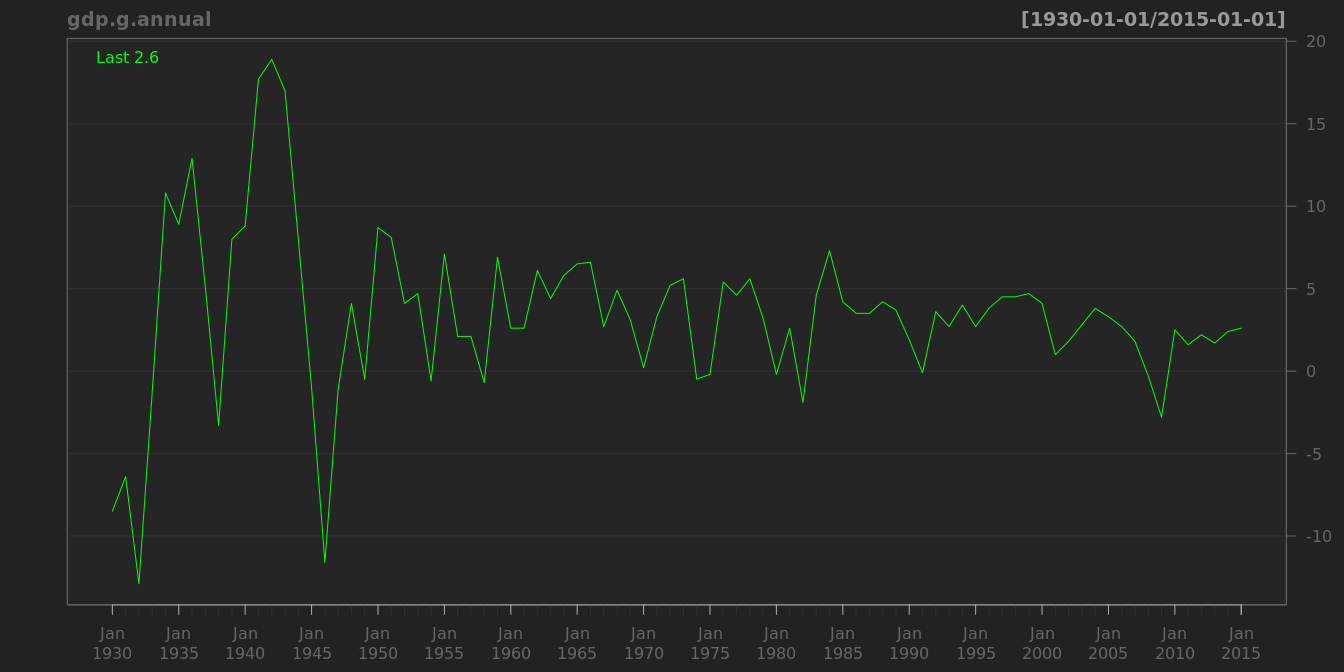
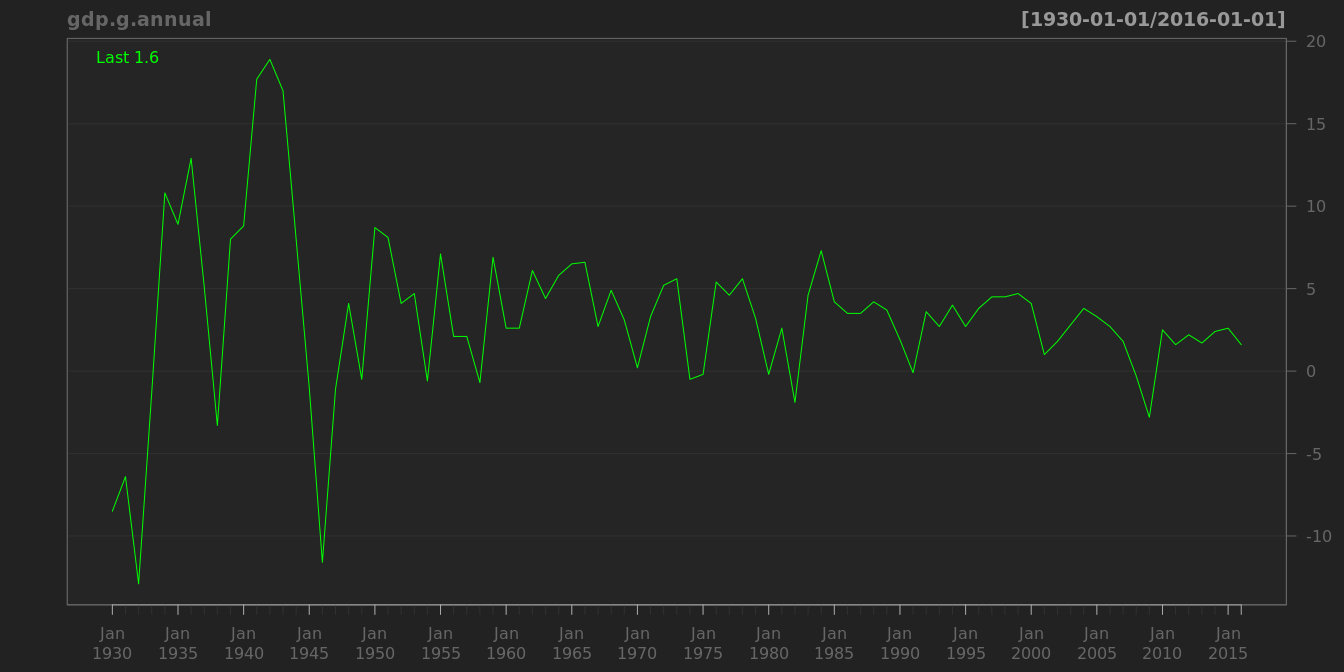
better

diff --git a/中央银行报告.md b/中央银行报告.md
@@ -90,7 +90,7 @@ Futures prices have also dropped significantly and indicate that market particip
 <img src="中央银行报告_files/figure-html/oil price-1.png" style="display: block; margin: auto;" /><img src="中央银行报告_files/figure-html/oil price-2.png" style="display: block; margin: auto;" />
 
 ```
-## [1] 57.47
+## [1] 56.53
 ```
 
 ```
@@ -142,12 +142,12 @@ Annual, Not Seasonally Adjusted
 
 ```
 ##            A191RL1A225NBEA
-## 2010-01-01             2.5
 ## 2011-01-01             1.6
 ## 2012-01-01             2.2
 ## 2013-01-01             1.7
 ## 2014-01-01             2.4
 ## 2015-01-01             2.6
+## 2016-01-01             1.6
 ```
 
 http://www.federalreserve.gov/monetarypolicy/mpr_20160210_part1.htm
@@ -377,9 +377,9 @@ of the top 20 firms,15 belongs to two industries: consumer staples and healthcar
 
 ```
 ##                                                          
-## "Min.   : 676.5  " "1st Qu.:1225.0  " "Median :1433.3  " 
+## "Min.   : 676.5  " "1st Qu.:1225.2  " "Median :1433.3  " 
 ##                                                          
-## "Mean   :1522.0  " "3rd Qu.:1921.9  " "Max.   :2298.4  " 
+## "Mean   :1522.3  " "3rd Qu.:1922.4  " "Max.   :2298.4  " 
 ##                    
 ##     "NA's   :91  "
 ```
@@ -392,9 +392,9 @@ of the top 20 firms,15 belongs to two industries: consumer staples and healthcar
 
 ```
 ##                                                                         
-## "Min.   : 6547  " "1st Qu.:11412  " "Median :13121  " "Mean   :13669  " 
+## "Min.   : 6547  " "1st Qu.:11412  " "Median :13125  " "Mean   :13672  " 
 ##                                                       
-## "3rd Qu.:16511  " "Max.   :20101  "    "NA's   :91  "
+## "3rd Qu.:16512  " "Max.   :20101  "    "NA's   :91  "
 ```
 
 <img src="中央银行报告_files/figure-html/dj-1.png" style="display: block; margin: auto;" />

diff --git a/市场观测指标.md b/市场观测指标.md
@@ -152,9 +152,9 @@ of the top 20 firms,15 belongs to two industries: consumer staples and healthcar
 
 ```
 ##                                                          
-## "Min.   : 676.5  " "1st Qu.:1225.0  " "Median :1433.3  " 
+## "Min.   : 676.5  " "1st Qu.:1225.2  " "Median :1433.3  " 
 ##                                                          
-## "Mean   :1522.0  " "3rd Qu.:1921.9  " "Max.   :2298.4  " 
+## "Mean   :1522.3  " "3rd Qu.:1922.4  " "Max.   :2298.4  " 
 ##                    
 ##     "NA's   :91  "
 ```
@@ -167,9 +167,9 @@ of the top 20 firms,15 belongs to two industries: consumer staples and healthcar
 
 ```
 ##                                                                         
-## "Min.   : 6547  " "1st Qu.:11412  " "Median :13121  " "Mean   :13669  " 
+## "Min.   : 6547  " "1st Qu.:11412  " "Median :13125  " "Mean   :13672  " 
 ##                                                       
-## "3rd Qu.:16511  " "Max.   :20101  "    "NA's   :91  "
+## "3rd Qu.:16512  " "Max.   :20101  "    "NA's   :91  "
 ```
 
 <img src="市场观测指标_files/figure-html/dj-1.png" style="display: block; margin: auto;" />
